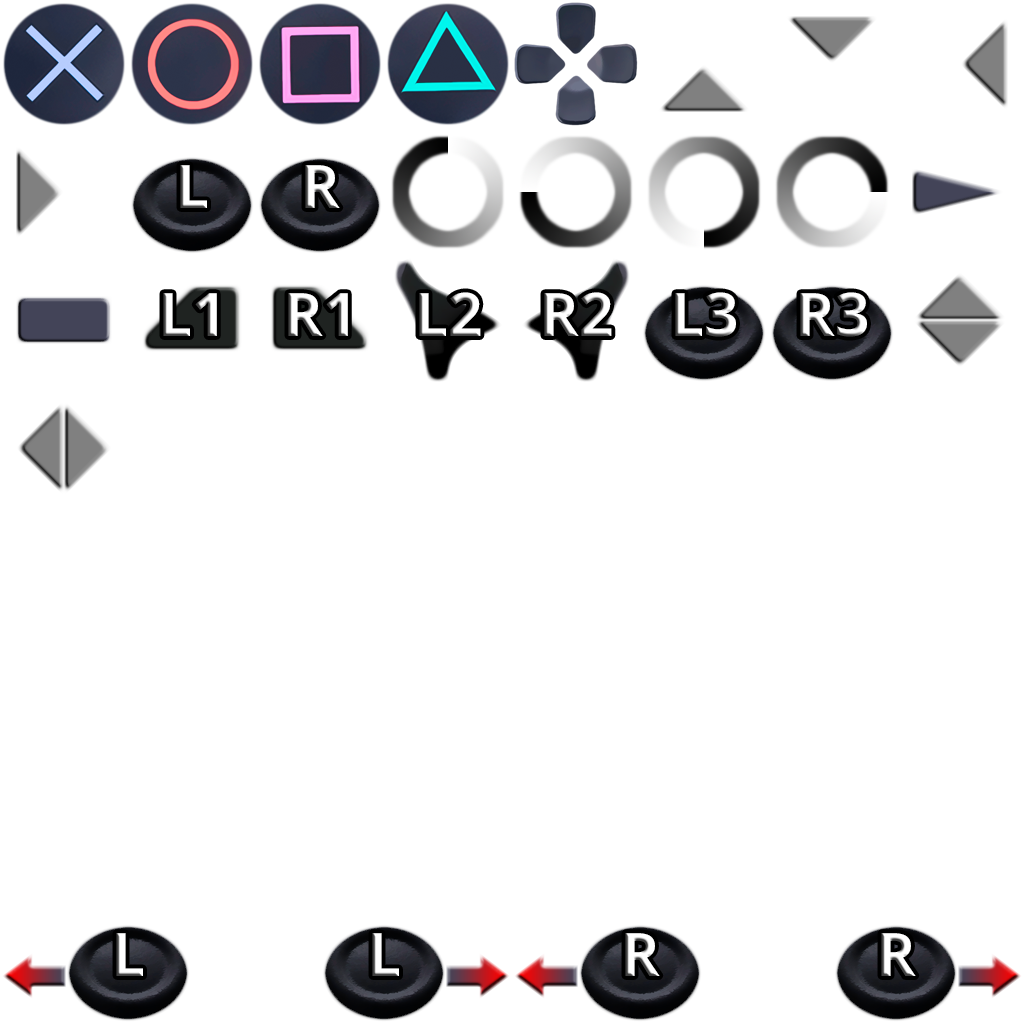
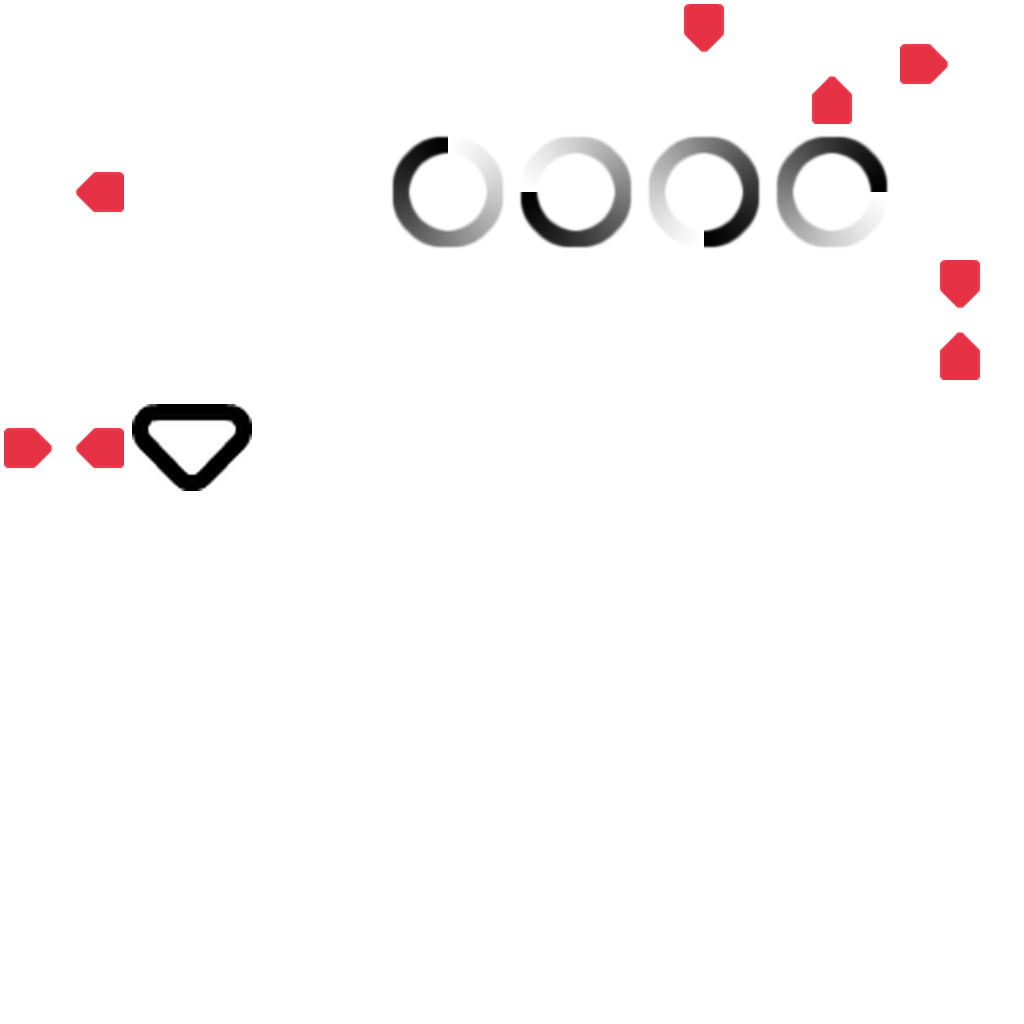
feat: add bundled CC0 controller glyph themes

diff --git a/ZachFix/glyphs/README.md b/ZachFix/glyphs/README.md
@@ -27,8 +27,69 @@ The theme name is the filename without its extension. ZachFix searches DDS first
 
 `Native` uses the original Deadly Premonition atlas captured during the current run when that atlas exists. If DP did not instantiate that input family's native atlas, an optional `native.dds`, `native.png`, or `native.tga` in the matching directory can provide it. Gamepad themes can also fall back to `xbox.*` when the requested set is unavailable.
 
-The release package intentionally does not redistribute Deadly Premonition's original texture assets. You can provide your own themes or compatible atlas files in these folders.
+## Bundled gamepad themes
 
-Custom themes must preserve the atlas layout expected by the game. The supported Steam build uses a 1024x1408 keyboard/mouse atlas and a 1024x1024 gamepad atlas.
+ZachFix currently bundles four clean controller themes built from the CC0 Kenney Input Prompts asset set:
+
+- `xbox.png`
+- `playstation.png`
+- `steamdeck.png`
+- `switch.png`
+
+The generated atlases are distributed with ZachFix. The full upstream Kenney source-asset pack is intentionally not stored in this repository. See `THIRD_PARTY.md` and `licenses/Kenney-Input-Prompts.txt` for provenance and license information.
+
+## Gamepad atlas authoring layout
+
+The gamepad atlas is `1024x1024` and uses a base grid of `128x128` cells. Rows and columns below are zero-based and written as `R<row>C<column>`.
+
+Rows `0` through `6` use ordinary `128x128` cells. Row `7` contains four logical `256x128` regions spanning column pairs `0-1`, `2-3`, `4-5`, and `6-7`.
+
+For custom themes, preserve these UV regions. A useful visual target for ordinary cells is about `120x120` visible content, centered with roughly 4 px of transparent padding on each side. Preserve aspect ratio when fitting non-square artwork.
+
+Known controller regions:
+
+| Region | Meaning |
+| --- | --- |
+| `R0C0` | A / Cross semantic action |
+| `R0C1` | B / Circle semantic action |
+| `R0C2` | X / Square semantic action |
+| `R0C3` | Y / Triangle semantic action |
+| `R0C4` | D-pad |
+| `R0C5` | D-pad Up |
+| `R0C6` | D-pad Down |
+| `R0C7` | D-pad Left |
+| `R1C0` | D-pad Right |
+| `R1C1` | Left Stick |
+| `R1C2` | Right Stick |
+| `R1C3..R1C6` | Four-frame loading animation |
+| `R1C7` | Start / Menu / Options / Plus |
+| `R2C0` | Select / View / Create / Minus |
+| `R2C1` | LB / L1 / L |
+| `R2C2` | RB / R1 / R |
+| `R2C3` | LT / L2 / ZL |
+| `R2C4` | RT / R2 / ZR |
+| `R2C5` | L3 / Left Stick Press |
+| `R2C6` | R3 / Right Stick Press |
+| `R2C7` | Up/Down combined direction |
+| `R3C0` | Left/Right combined direction |
+| `R3C1` | Continue / scroll-down indicator |
+| `R3C2` | `TM` legacy/unobserved glyph |
+| `R3C3` | circled `R` legacy/unobserved glyph |
+| `R7C0-1` | Left-stick left motion prompt |
+| `R7C2-3` | Left-stick right motion prompt |
+| `R7C4-5` | Right-stick left motion prompt |
+| `R7C6-7` | Right-stick right motion prompt |
+
+Rows containing old motion-controller artwork are intentionally not treated as required authoring targets unless runtime testing proves they are used by the PC build.
+
+Nintendo face-button labels use Nintendo's physical layout while preserving DP's semantic action slots: the A/B and X/Y labels are swapped relative to the Xbox-labelled atlas.
+
+## Keyboard/mouse atlas
+
+The supported PC builds use a `1024x1408` keyboard/mouse atlas. Custom keyboard themes must preserve the original relative UV/layout structure.
+
+## Runtime behavior
 
 With `HotReload = true`, editing or replacing the active theme file is detected at runtime. Theme selection from F10 is also live. Enabling or disabling `DynamicAtlas` itself requires a restart.
+
+While `DynamicAtlas = true`, the managed keyboard/gamepad atlas textures are excluded from the generic texture-override pipeline so the two systems cannot compete for the same textures.

diff --git a/README.md b/README.md
@@ -123,7 +123,7 @@ Deadly Premonition The Director's Cut/
         `-- gamepad/
 ```
 
-The release package includes an empty `ZachFix/glyphs/keyboard` and `ZachFix/glyphs/gamepad` theme skeleton plus a short `ZachFix/glyphs/README.md`. Texture working directories are created automatically when their subsystem initializes, and missing glyph directories are also recreated at runtime.
+The release package includes the `ZachFix/glyphs/keyboard` theme directory, bundled `xbox`, `playstation`, `steamdeck`, and `switch` gamepad themes, plus `ZachFix/glyphs/README.md` with the known atlas layout for custom theme authors. Texture working directories are created automatically when their subsystem initializes, and missing glyph directories are also recreated at runtime.
 
 Press **F10** in-game to open the settings UI.
 
@@ -249,12 +249,15 @@ ZachFix/
     |   |-- redseed.png
     |   `-- minimal.dds
     `-- gamepad/
-        |-- xbox.tga
+        |-- xbox.png
         |-- playstation.png
-        `-- nintendo.dds
+        |-- steamdeck.png
+        `-- switch.png
 ```
 
 For example, `KeyboardSet = redseed` resolves `glyphs/keyboard/redseed.dds`, `.png`, or `.tga`; `GamepadSet = playstation` does the same under `glyphs/gamepad`. The load priority is DDS, PNG, then TGA. `Native` selects the captured original DP atlas when available, with the glyph subsystem's own fallback handling if DP did not create that atlas during the current run.
+
+The bundled gamepad themes use CC0 Kenney Input Prompts artwork and are fitted to DP's existing atlas UV layout. `ZachFix/glyphs/README.md` documents the currently mapped controller regions and authoring dimensions.
 
 The F10 UI discovers theme files dynamically, switches theme names at runtime, and can save the selected names back to `ZachFix.ini`. With `HotReload = true`, editing or replacing the active theme file is picked up without restarting the game. Enabling or disabling `DynamicAtlas` itself requires a restart because that choice determines glyph-texture ownership when DP first loads its atlases. While `DynamicAtlas = true`, the two DP glyph atlases are isolated from the generic texture-override path so the two systems cannot fight over the same texture.
 

diff --git a/THIRD_PARTY.md b/THIRD_PARTY.md
@@ -45,6 +45,17 @@ ZachFix contains a compatibility implementation of Paul Hsieh's SuperFastHash, i
 
 License: Paul Hsieh OLD BSD license. The notice is included in `licenses/SuperFastHash.txt` and alongside the implementation source.
 
+
+## Kenney Input Prompts 1.5A
+
+The bundled `xbox`, `playstation`, `steamdeck`, and `switch` controller glyph atlases are generated from selected artwork in Kenney Input Prompts 1.5A and adapted to Deadly Premonition's existing controller-atlas layout.
+
+License: Creative Commons Zero (CC0 1.0 Universal).
+
+Source: https://kenney-assets.itch.io/input-prompts
+
+The full upstream source-asset pack is not redistributed in the ZachFix repository or release package. The upstream license/provenance notice supplied with the asset pack is included as `licenses/Kenney-Input-Prompts.txt`.
+
 ## Acknowledgements / interoperability
 
 The following projects are part of the tested ZachFix deployment/modding ecosystem but are **not bundled dependencies** merely by being listed here:

diff --git a/CHANGELOG.md b/CHANGELOG.md
@@ -2,6 +2,16 @@
 
 ## Unreleased
 
+### Glyph themes
+
+- Rebuilt the bundled Xbox and PlayStation controller glyph themes from CC0 Kenney Input Prompts artwork using the validated Deadly Premonition gamepad-atlas layout.
+- Added bundled Steam Deck and Nintendo Switch controller themes.
+- Standardized visible controller-glyph sizing to nearly fill each 128x128 UV cell while retaining a small transparent padding margin.
+- Corrected Nintendo A/B and X/Y face-button labels for Nintendo's physical button layout while preserving DP's semantic action slots.
+- Documented the currently mapped 1024x1024 gamepad atlas regions for custom theme authors.
+- Added the Kenney Input Prompts provenance/license notice without bundling the full upstream asset source pack.
+
+
 ## v0.1.0-rc8
 
 Executable-compatibility focused release candidate.
